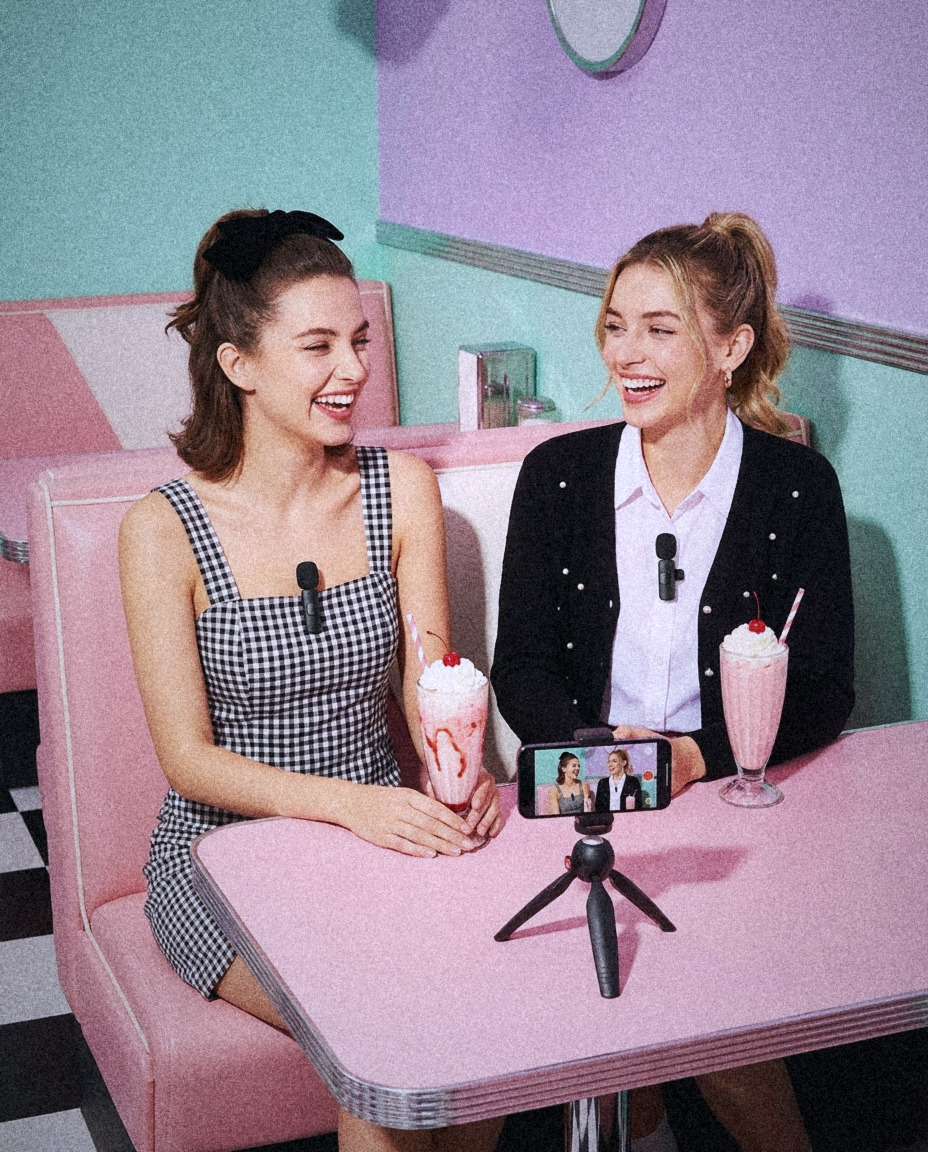
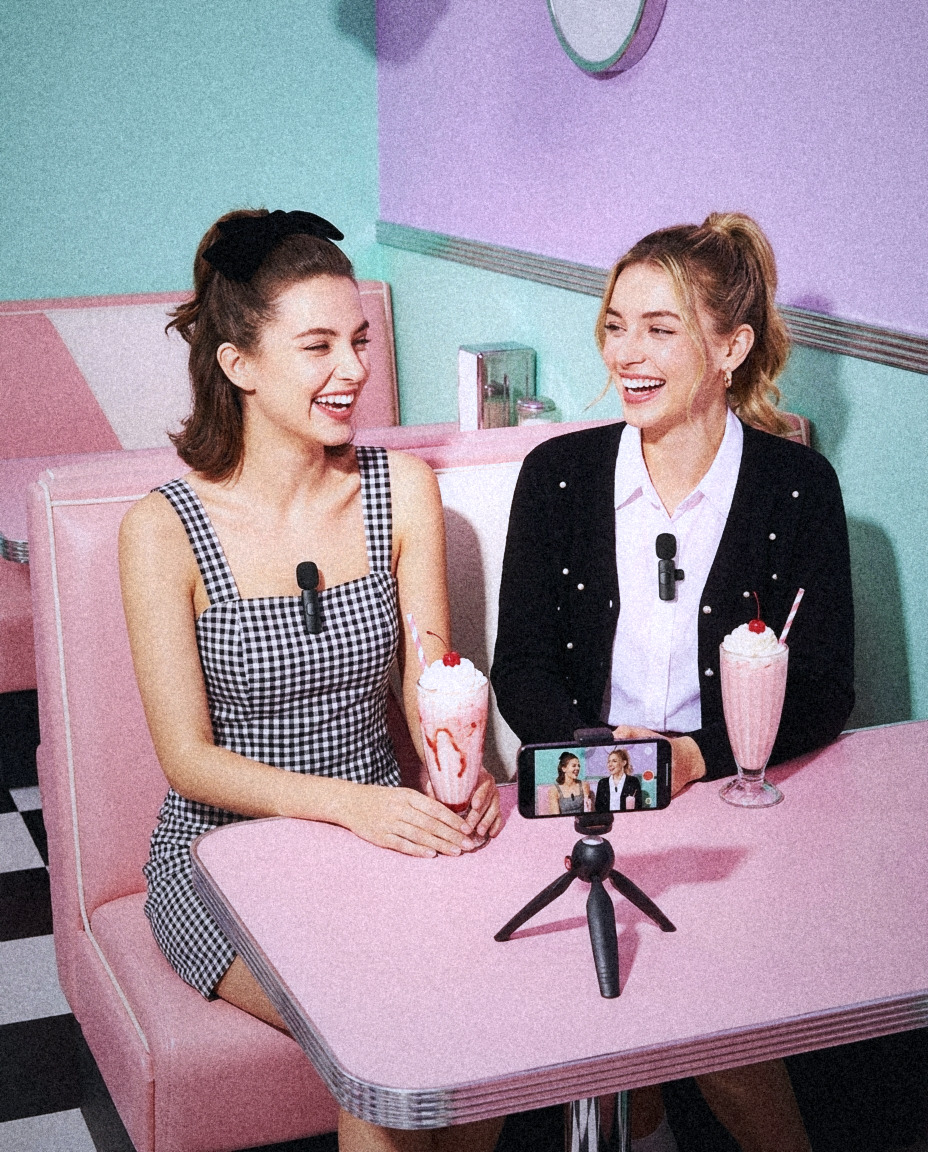
DUET FILM grade: stronger flash + slight vignette preset for people shots
Claude-Session: https://claude.ai/code/session_01HacCXD9LpgM5ntEmeAeECx

diff --git a/DUET-MIC-VIDEOS/ROUND-3-AI-IMAGERY/DUET-FILM-GRADE.py b/DUET-MIC-VIDEOS/ROUND-3-AI-IMAGERY/DUET-FILM-GRADE.py
@@ -2,21 +2,25 @@
 import sys, numpy as np
 from PIL import Image, ImageFilter
 
-def grade(src, dst, grain=19.0, seed=7):
+def grade(src, dst, grain=19.0, seed=7, people=False):
     im = Image.open(src).convert('RGB')
     im = im.filter(ImageFilter.GaussianBlur(0.45))                      # soften AI crispness
     a = np.asarray(im).astype(np.float32) / 255.0
     h, w, _ = a.shape
     y, x = np.mgrid[0:h, 0:w].astype(np.float32)
     # 1. On-camera flash: centre lift + soft vignette falloff
-    cx, cy = w * 0.5, h * 0.46
+    cx, cy = w * 0.5, h * (0.40 if people else 0.46)
     r = np.sqrt(((x - cx) / (w * 0.62)) ** 2 + ((y - cy) / (h * 0.62)) ** 2)
-    flash = 1.07 - 0.30 * np.clip(r, 0, 1.4) ** 1.7
+    if people:
+        # direct on-camera flash: subject pops, light falls away fast, very slight vignette at the corners
+        flash = 1.17 - 0.33 * np.clip(r, 0, 1.4) ** 1.25 - 0.08 * np.clip(r - 0.85, 0, 1) ** 1.2
+    else:
+        flash = 1.07 - 0.30 * np.clip(r, 0, 1.4) ** 1.7
     a = a * flash[..., None]
     # 2. Tone: slightly darker mids, deeper shadows, gentle S-curve, soft highlight roll-off
     a = np.clip(a, 0, 1)
     a = a ** 1.04
-    a = a + 0.22 * (a - 0.5) * (1 - np.abs(2 * a - 1))                   # S-curve (flash punch)
+    a = a + (0.30 if people else 0.22) * (a - 0.5) * (1 - np.abs(2 * a - 1))   # S-curve (flash punch)
     a = 1 - (1 - a) ** 1.04
     # 3. Colour: calm hot reds/oranges, warm highlights, faint cool shadows
     lum = (a * [0.299, 0.587, 0.114]).sum(2, keepdims=True)
@@ -28,7 +32,7 @@ def grade(src, dst, grain=19.0, seed=7):
     # 4. Flash bloom + halation around bright highlights
     b = np.clip((lum - 0.78) / 0.22, 0, 1)[..., 0]
     bloom = np.asarray(Image.fromarray((b * 255).astype(np.uint8)).filter(ImageFilter.GaussianBlur(max(w, h) / 90))).astype(np.float32) / 255
-    a = a + bloom[..., None] * np.array([0.06, 0.025, 0.02])
+    a = a + bloom[..., None] * (np.array([0.09, 0.05, 0.035]) if people else np.array([0.06, 0.025, 0.02]))   # flash glow on skin/highlights
     # 4b. Printed-film finish: faded whites, lifted blacks
     a = 0.035 + np.clip(a, 0, 1.2) * 0.885
     # 5. Film grain: luminance, fine, strongest in midtones
@@ -41,4 +45,6 @@ def grade(src, dst, grain=19.0, seed=7):
     Image.fromarray((np.clip(a, 0, 1) * 255).round().astype(np.uint8)).save(dst, quality=92, subsampling=0)
 
 if __name__ == '__main__':
-    grade(sys.argv[1], sys.argv[2], *(float(v) for v in sys.argv[3:4]))
+    people = '--people' in sys.argv
+    args = [v for v in sys.argv[1:] if v != '--people']
+    grade(args[0], args[1], people=people)
